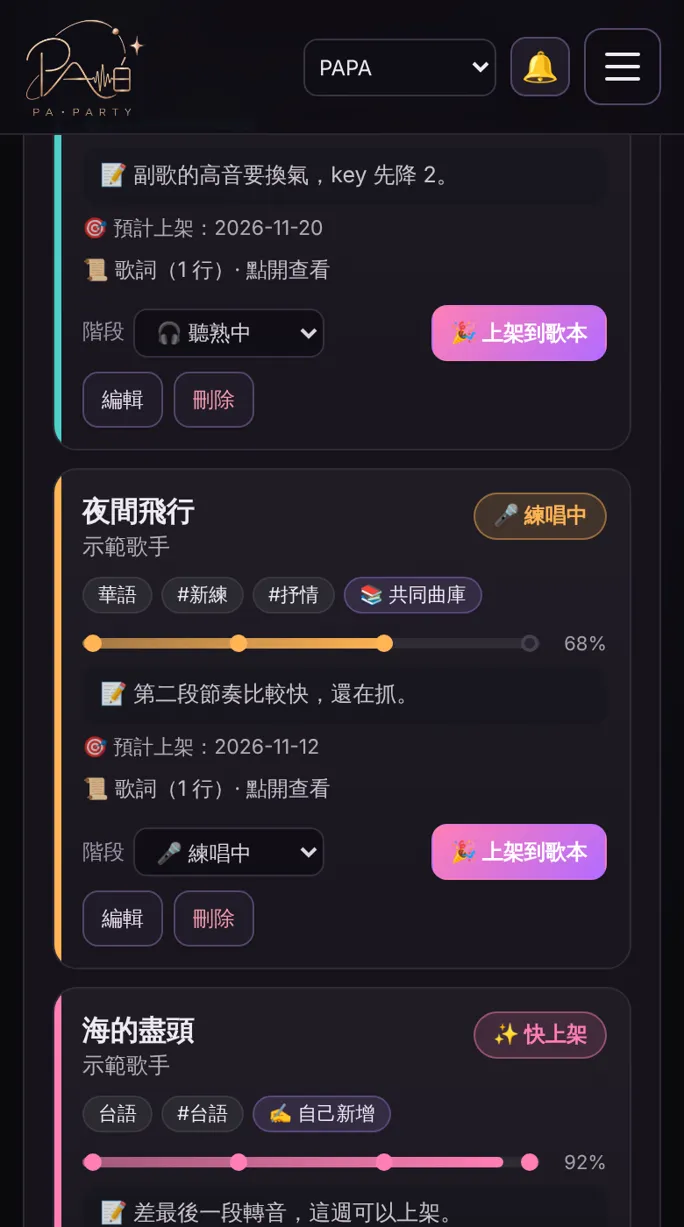
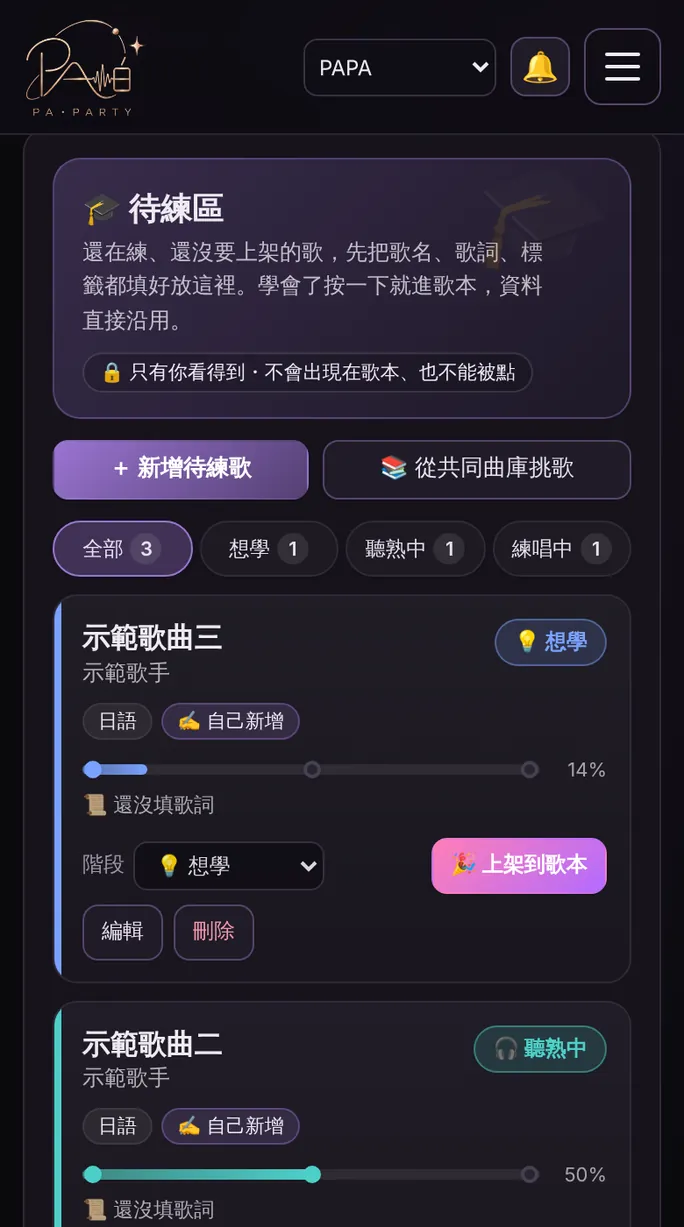
11.02-TUTORIAL.41: 版本關係更多收納、待練區按鈕自動適配、新增教學 S22、主題色跟隨
Claude-Session: https://claude.ai/code/session_01ANnXFeqtVDYF17keKLURCW

diff --git a/src/practice-zone.js b/src/practice-zone.js
@@ -15,13 +15,15 @@ const CSS=`
 .pz-bar{display:flex;gap:8px;flex-wrap:wrap;margin:12px 0 4px}
 .pz-bar button{flex:1 1 auto;min-height:40px}
 .pz-primary{background:linear-gradient(135deg,var(--pz-accent),color-mix(in srgb,var(--pz-accent) 55%,#000))!important;color:#fff!important;border-color:transparent!important;font-weight:700}
-.pz-chips{display:flex;gap:6px;overflow-x:auto;padding:8px 0 10px;scrollbar-width:none}
+.pz-chips{display:grid;grid-template-columns:repeat(4,minmax(0,1fr));gap:4px;padding:8px 0 10px}
 .pz-chips::-webkit-scrollbar{display:none}
-.pz-chip{flex:0 0 auto;display:inline-flex;align-items:center;gap:5px;padding:6px 11px;border-radius:999px;font-size:12.5px;border:1px solid var(--line,#fff2);background:#ffffff08;white-space:nowrap}
+.pz-chip{min-width:0;justify-content:center;display:inline-flex;align-items:center;gap:3px;padding:6px 3px;border-radius:999px;font-size:clamp(10.5px,3vw,12.5px);border:1px solid var(--home-line,var(--line,#fff2));background:#ffffff08;white-space:nowrap}
 .pz-chip b{font-size:11px;min-width:18px;height:18px;line-height:18px;text-align:center;border-radius:9px;background:#ffffff18;font-weight:600}
+.pz-chip b{flex:none}
+@media(max-width:430px){.pz-chip .pz-ic{display:none}.pz-chip{gap:4px}}
 .pz-chip.on{background:color-mix(in srgb,var(--pz-accent) 32%,transparent);border-color:var(--pz-accent)}
 .pz-list{display:grid;gap:10px}
-.pz-card{position:relative;padding:13px 13px 12px 16px;border-radius:14px;border:1px solid var(--line,#fff2);background:linear-gradient(180deg,#ffffff0b,#ffffff04);overflow:hidden}
+.pz-card{position:relative;padding:13px 13px 12px 16px;border-radius:14px;border:1px solid var(--home-line,var(--line,#fff2));background:linear-gradient(180deg,#ffffff0b,#ffffff04);overflow:hidden}
 .pz-card::before{content:"";position:absolute;left:0;top:0;bottom:0;width:4px;background:var(--c)}
 .pz-top{display:flex;gap:10px;align-items:flex-start;justify-content:space-between}
 .pz-title{font-size:16px;font-weight:700;line-height:1.3;overflow-wrap:anywhere}
@@ -49,7 +51,7 @@ const CSS=`
 .pz-stagesel{display:inline-flex;align-items:center;gap:5px;margin:0;font-size:12px;opacity:.9}
 .pz-stagesel select{width:auto;margin:0;min-height:28px;padding:2px 24px 2px 8px;font-size:12px}
 .pz-chk{display:flex;flex-wrap:wrap;gap:6px;margin:2px 0 4px}
-.pz-chk label{display:inline-flex;align-items:center;gap:5px;margin:0;padding:5px 10px;border-radius:999px;border:1px solid var(--line,#fff2);font-size:12.5px;cursor:pointer}
+.pz-chk label{display:inline-flex;align-items:center;gap:5px;margin:0;padding:5px 10px;border-radius:999px;border:1px solid var(--home-line,var(--line,#fff2));font-size:12.5px;cursor:pointer}
 .pz-chk input{width:auto;margin:0}
 .pz-chk label:has(input:checked){background:color-mix(in srgb,var(--pz-accent) 30%,transparent);border-color:var(--pz-accent)}
 .pz-go{background:linear-gradient(135deg,#ff7eb6,#b36bff)!important;color:#fff!important;border-color:transparent!important;font-weight:600}
@@ -73,7 +75,7 @@ export function createPracticeZone({h,modal,field,select,area,toast,render,getIt
  function html(){ensureStyle();const count=id=>items().filter(i=>id==='all'||i.stage===id).length,rows=items().filter(i=>filter==='all'||i.stage===filter);
   return `<div class="pz"><div class="pz-hero"><h2>🎓 待練區</h2><p>還在練、還沒要上架的歌，先把歌名、歌詞、標籤都填好放這裡。學會了按一下就進歌本，資料直接沿用。</p><span class="pz-lock">🔒 只有你看得到・不會出現在歌本、也不能被點</span></div>
   <div class="pz-bar"><button type="button" class="pz-primary" data-pz="add">＋ 新增待練歌</button><button type="button" data-pz="catalog">📚 從共同曲庫挑歌</button></div>
-  <div class="pz-chips" role="tablist">${[{id:'all',icon:'🗂',name:'全部'},...STAGES].map(s=>`<button type="button" class="pz-chip ${filter===s.id?'on':''}" data-pz="filter" data-id="${s.id}">${s.icon} ${s.name}<b>${count(s.id)}</b></button>`).join('')}</div>
+  <div class="pz-chips" role="tablist">${[{id:'all',icon:'🗂',name:'全部'},...STAGES].map(s=>`<button type="button" class="pz-chip ${filter===s.id?'on':''}" data-pz="filter" data-id="${s.id}"><span class="pz-ic">${s.icon}</span>${s.name}<b>${count(s.id)}</b></button>`).join('')}</div>
   <div class="pz-list">${rows.map(card).join('')||`<div class="pz-empty"><b>🎶</b>這裡還沒有歌<br>想練的歌先丟進來，慢慢練到可以上架</div>`}</div>
   <div class="pz-help">階段說明：${STAGES.map(s=>`${s.icon}${s.name}（${s.hint}）`).join(' → ')}</div></div>`;}
  function form(it={}){const langs=[...new Set([...getLangs(),...(it.lang?[it.lang]:[])])],tags=[...new Set([...getTags(),...(it.tags||[])])];

diff --git a/src/tutorial-center.js b/src/tutorial-center.js
@@ -8,7 +8,7 @@ export function createTutorialCenter({document, getAudience, review=false, fetch
  const base=new URL('./tutorials/',import.meta.url);
  const audience=()=>getAudience()==='streamer'?'streamer':'player';
  async function json(file){const url=new URL(file,base).href;if(cache.has(url))return cache.get(url);const data=await read(url,{credentials:'omit',cache:'no-cache'}).then(r=>{if(!r.ok)throw Error('教材載入失敗');return r.json();});cache.set(url,data);return data;}
- function mount(){if(dialog)return;const css=document.createElement('link');css.rel='stylesheet';css.href=new URL('./tutorial-center.css?v=11.02-TUTORIAL.40',import.meta.url).href;document.head.append(css);dialog=document.createElement('dialog');dialog.className='tutorial-center';dialog.setAttribute('aria-labelledby','tutorial-title');dialog.innerHTML='<header><h2 id="tutorial-title">📖 操作教學</h2><button type="button" data-tutorial-close aria-label="關閉操作教學">關閉</button></header><div class="tutorial-body"></div>';document.body.append(dialog);dialog.addEventListener('close',()=>{if(dialog.open)return;generation++;article=null;if(opener?.isConnected)opener.focus({preventScroll:true});});dialog.addEventListener('click',event=>{const b=event.target.closest('button');if(!b)return;if(b.hasAttribute('data-tutorial-close'))dialog.close();else if(b.hasAttribute('data-tutorial-article'))load(b.dataset.tutorialArticle);else if(b.hasAttribute('data-tutorial-list')){article=null;renderList();}else if(b.hasAttribute('data-tutorial-step')){step=Number(b.dataset.tutorialStep);renderArticle();}});dialog.addEventListener('input',event=>{if(event.target.matches('[data-tutorial-search]')){query=event.target.value;renderResults();}});dialog.addEventListener('change',event=>{if(event.target.matches('[data-tutorial-category]')){category=event.target.value;renderResults();}});}
+ function mount(){if(dialog)return;const css=document.createElement('link');css.rel='stylesheet';css.href=new URL('./tutorial-center.css?v=11.02-TUTORIAL.41',import.meta.url).href;document.head.append(css);dialog=document.createElement('dialog');dialog.className='tutorial-center';dialog.setAttribute('aria-labelledby','tutorial-title');dialog.innerHTML='<header><h2 id="tutorial-title">📖 操作教學</h2><button type="button" data-tutorial-close aria-label="關閉操作教學">關閉</button></header><div class="tutorial-body"></div>';document.body.append(dialog);dialog.addEventListener('close',()=>{if(dialog.open)return;generation++;article=null;if(opener?.isConnected)opener.focus({preventScroll:true});});dialog.addEventListener('click',event=>{const b=event.target.closest('button');if(!b)return;if(b.hasAttribute('data-tutorial-close'))dialog.close();else if(b.hasAttribute('data-tutorial-article'))load(b.dataset.tutorialArticle);else if(b.hasAttribute('data-tutorial-list')){article=null;renderList();}else if(b.hasAttribute('data-tutorial-step')){step=Number(b.dataset.tutorialStep);renderArticle();}});dialog.addEventListener('input',event=>{if(event.target.matches('[data-tutorial-search]')){query=event.target.value;renderResults();}});dialog.addEventListener('change',event=>{if(event.target.matches('[data-tutorial-category]')){category=event.target.value;renderResults();}});}
  const body=()=>dialog.querySelector('.tutorial-body');
  function currentIndex(){return visibleTutorials(index||[],audience(),typeof review==='function'?review():review);}
  function renderList(){const items=currentIndex(),categories=[...new Set(items.map(i=>i.category))];body().innerHTML=`<section class="tutorial-hero"><p class="tutorial-eyebrow">${audience()==='streamer'?'🎤 主播端':'🎧 玩家端'} · 圖文操作教學</p><h3>想學哪一項？</h3><p class="tutorial-sub">每個步驟都有畫面、按鈕說明和注意事項，跟著做就會了。</p></section>${(typeof review==='function'?review():review)?'<p class="tutorial-note">🚧 審核模式：未完成的教材只提供草稿，補齊截圖與審核後才會對外開放。</p>':''}<div class="tutorial-tools"><label class="tutorial-search"><span aria-hidden="true">🔍</span><input type="search" data-tutorial-search value="${escape(query)}" placeholder="搜尋：存歌、確認禮物、準備時間" aria-label="關鍵字搜尋"></label><label class="tutorial-cat"><select data-tutorial-category aria-label="教學分類"><option value="">全部分類</option>${categories.map(c=>`<option ${category===c?'selected':''}>${escape(c)}</option>`).join('')}</select></label></div><div data-tutorial-results class="tutorial-grid" aria-live="polite"></div>`;renderResults();}

diff --git a/src/app.js b/src/app.js
@@ -1,10 +1,10 @@
-import {createPracticeZone} from './practice-zone.js?v=11.02-PZ.4';
-import {createTutorialCenter} from './tutorial-center.js?v=11.02-TUTORIAL.40';
-import {createTutorialHints} from './tutorial-hints.js?v=11.02-TUTORIAL.40';
+import {createPracticeZone} from './practice-zone.js?v=11.02-PZ.5';
+import {createTutorialCenter} from './tutorial-center.js?v=11.02-TUTORIAL.41';
+import {createTutorialHints} from './tutorial-hints.js?v=11.02-TUTORIAL.41';
 import {installMedalReplay,animateUnlockedMedals} from './medal-animation.js';
 installMedalReplay(document);
 
-import {installCompactMenu} from './application-menu.js?v=11.02-TUTORIAL.40';
+import {installCompactMenu} from './application-menu.js?v=11.02-TUTORIAL.41';
 import {createPlatformManagement} from './platform-management.js?v=10.29-SPACE.1';
 import {createManagementEntry} from './management-entry.js?v=10.21-WEB.4';
 import {installOverlayFeedback} from './overlay-feedback.js?v=10.21-WEB.4';
@@ -20,7 +20,7 @@ import {webApiFailure} from './web-api-errors.js?v=10.20-WEB.1';
 import {canonicalNoticeLink} from './notification-rules.js?v=10.31-PUSH.3';
 import {validateNotificationTarget,parseNotificationTarget,notificationTargetPath,notificationTargetView} from './notification-target.js?v=10.31-CALL.1';
 import {noticeTargetMatchesRoom,planNotificationLanding} from './notification-landing.js?v=10.20-WEB.1';
-import {canonicalLanguage,catalogGroupKey,eventDescription,installActionHints,installSearchShortcuts} from './catalog-tools.js?v=11.02-TUTORIAL.40';
+import {canonicalLanguage,catalogGroupKey,eventDescription,installActionHints,installSearchShortcuts} from './catalog-tools.js?v=11.02-TUTORIAL.41';
 import {fateCategories,drawSong} from './fate.js?v=10.20-WEB.1';
 import {createBoard} from './board.js?v=10.20-WEB.1';
 import {createChat} from './chat.js?v=10.31-PUSH.2';
@@ -816,7 +816,7 @@ function applyHomeTheme(){const root=document.documentElement;if(state.settings.
 // spread down a long list nor get cut off on a short page.
 const themeDecorHomeKey=()=> 'papa-theme-decor-home-'+(state.currentStreamer?.id||streamerSlug);
 function syncThemeDecor(){const app=$('#app'),theme=state.settings.theme;if(!app)return;app.querySelectorAll(':scope>.theme-decor-layer').forEach(el=>el.remove());const html=theme&&!managementPage()?themeDecorHtml(theme,{escape:h}):'';app.classList.toggle('theme-home-host',!!html);if(html){app.insertAdjacentHTML('beforeend',html);const layer=app.querySelector(':scope>.theme-decor-layer:not(.theme-decor-screen)');if(layer){const home=!['admin','common-book','book','center','gallery'].includes(route);if(home){try{localStorage.setItem(themeDecorHomeKey(),String(app.offsetHeight));}catch{}}else{let homeHeight=0;try{homeHeight=Number(localStorage.getItem(themeDecorHomeKey()))||0;}catch{}if(homeHeight>0){layer.style.bottom='auto';layer.style.height=Math.min(app.offsetHeight,homeHeight)+'px';}}}}themeDecorMotion(document,html?theme:null,{host:app});}
-async function loadThemeStudio(){if(!document.querySelector('link[data-theme-studio-css]')){const link=document.createElement('link');link.rel='stylesheet';link.href=new URL('./theme-studio.css?v=11.02-TUTORIAL.40',import.meta.url).href;link.dataset.themeStudioCss='';document.head.append(link);}return import('./theme-studio.js?v=11.02-TUTORIAL.40');}
+async function loadThemeStudio(){if(!document.querySelector('link[data-theme-studio-css]')){const link=document.createElement('link');link.rel='stylesheet';link.href=new URL('./theme-studio.css?v=11.02-TUTORIAL.41',import.meta.url).href;link.dataset.themeStudioCss='';document.head.append(link);}return import('./theme-studio.js?v=11.02-TUTORIAL.41');}
 async function openThemeDesigner(){
  if(demo||draft)throw Error('首頁主題設計請在正式同步模式使用');if(!admin)throw Error('請先登入管理');
  const {openThemeStudio}=await loadThemeStudio();const room=state.currentStreamer,space=state.streamers.find(r=>r.id===room.id)?.spaceId||room.spaceId||'space-001';

diff --git a/preview.html b/preview.html
@@ -1,2 +1,2 @@
-<!doctype html><html lang="zh-Hant"><head><meta charset="utf-8"><meta name="viewport" content="width=device-width,initial-scale=1"><meta name="theme-color" content="#171222"><title>PA • PARTY｜點歌與存歌</title><link rel="stylesheet" href="src/style.css?v=10.29-CATALOG.1"><link rel="stylesheet" href="src/mobile.css?v=10.20-WEB.1"><link rel="stylesheet" href="src/theme.css?v=11.02-TUTORIAL.40"><link rel="stylesheet" href="src/theme-v2.css?v=10.31-THEME.1"><link rel="manifest" href="manifest.webmanifest"><link rel="apple-touch-icon" href="assets/apple-touch-icon.png"><link rel="stylesheet" href="src/site-footer.css?v=10.20-WEB.1"><link rel="stylesheet" href="src/share-dialog.css?v=10.20-WEB.1"><link rel="stylesheet" href="src/public-links.css?v=10.20-WEB.1"></head><body><header id="header"></header><main id="app"><p>歌本準備中 ♡</p></main><footer id="site-footer" class="site-footer" aria-label="網站資訊"></footer><dialog id="dialog"></dialog><div id="toast" role="status" aria-live="polite"></div><script type="module" src="src/app.js?v=11.02-TUTORIAL.40&pwa=1&menu=1023&admin=1"></script><script type="module" src="src/site-footer.js?v=10.20-WEB.1"></script><script type="module" src="src/application-menu-bootstrap.js?v=11.02-TUTORIAL.40"></script></body></html>
+<!doctype html><html lang="zh-Hant"><head><meta charset="utf-8"><meta name="viewport" content="width=device-width,initial-scale=1"><meta name="theme-color" content="#171222"><title>PA • PARTY｜點歌與存歌</title><link rel="stylesheet" href="src/style.css?v=10.29-CATALOG.1"><link rel="stylesheet" href="src/mobile.css?v=10.20-WEB.1"><link rel="stylesheet" href="src/theme.css?v=11.02-TUTORIAL.41"><link rel="stylesheet" href="src/theme-v2.css?v=10.31-THEME.1"><link rel="manifest" href="manifest.webmanifest"><link rel="apple-touch-icon" href="assets/apple-touch-icon.png"><link rel="stylesheet" href="src/site-footer.css?v=10.20-WEB.1"><link rel="stylesheet" href="src/share-dialog.css?v=10.20-WEB.1"><link rel="stylesheet" href="src/public-links.css?v=10.20-WEB.1"></head><body><header id="header"></header><main id="app"><p>歌本準備中 ♡</p></main><footer id="site-footer" class="site-footer" aria-label="網站資訊"></footer><dialog id="dialog"></dialog><div id="toast" role="status" aria-live="polite"></div><script type="module" src="src/app.js?v=11.02-TUTORIAL.41&pwa=1&menu=1023&admin=1"></script><script type="module" src="src/site-footer.js?v=10.20-WEB.1"></script><script type="module" src="src/application-menu-bootstrap.js?v=11.02-TUTORIAL.41"></script></body></html>
 

diff --git a/v2.html b/v2.html
@@ -1,2 +1,2 @@
-<!doctype html><html lang="zh-Hant"><head><meta charset="utf-8"><meta name="viewport" content="width=device-width,initial-scale=1"><meta name="theme-color" content="#171222"><title>PA • PARTY｜點歌與存歌</title><link rel="stylesheet" href="src/style.css?v=10.29-CATALOG.1"><link rel="stylesheet" href="src/mobile.css?v=10.20-WEB.1"><link rel="stylesheet" href="src/theme.css?v=11.02-TUTORIAL.40"><link rel="stylesheet" href="src/theme-v2.css?v=10.31-THEME.1"><link rel="manifest" href="manifest.webmanifest"><link rel="apple-touch-icon" href="assets/apple-touch-icon.png"><link rel="stylesheet" href="src/site-footer.css?v=10.20-WEB.1"><link rel="stylesheet" href="src/share-dialog.css?v=10.20-WEB.1"><link rel="stylesheet" href="src/public-links.css?v=10.20-WEB.1"></head><body><header id="header"></header><main id="app"><p>歌本準備中 ♡</p></main><footer id="site-footer" class="site-footer" aria-label="網站資訊"></footer><dialog id="dialog"></dialog><div id="toast" role="status" aria-live="polite"></div><script type="module" src="src/app.js?v=11.02-TUTORIAL.40&pwa=1&menu=1023&admin=1"></script><script type="module" src="src/site-footer.js?v=10.20-WEB.1"></script><script type="module" src="src/application-menu-bootstrap.js?v=11.02-TUTORIAL.40"></script></body></html>
+<!doctype html><html lang="zh-Hant"><head><meta charset="utf-8"><meta name="viewport" content="width=device-width,initial-scale=1"><meta name="theme-color" content="#171222"><title>PA • PARTY｜點歌與存歌</title><link rel="stylesheet" href="src/style.css?v=10.29-CATALOG.1"><link rel="stylesheet" href="src/mobile.css?v=10.20-WEB.1"><link rel="stylesheet" href="src/theme.css?v=11.02-TUTORIAL.41"><link rel="stylesheet" href="src/theme-v2.css?v=10.31-THEME.1"><link rel="manifest" href="manifest.webmanifest"><link rel="apple-touch-icon" href="assets/apple-touch-icon.png"><link rel="stylesheet" href="src/site-footer.css?v=10.20-WEB.1"><link rel="stylesheet" href="src/share-dialog.css?v=10.20-WEB.1"><link rel="stylesheet" href="src/public-links.css?v=10.20-WEB.1"></head><body><header id="header"></header><main id="app"><p>歌本準備中 ♡</p></main><footer id="site-footer" class="site-footer" aria-label="網站資訊"></footer><dialog id="dialog"></dialog><div id="toast" role="status" aria-live="polite"></div><script type="module" src="src/app.js?v=11.02-TUTORIAL.41&pwa=1&menu=1023&admin=1"></script><script type="module" src="src/site-footer.js?v=10.20-WEB.1"></script><script type="module" src="src/application-menu-bootstrap.js?v=11.02-TUTORIAL.41"></script></body></html>
 

diff --git a/src/theme.css b/src/theme.css
@@ -412,8 +412,8 @@ html #app .notice-target-banner{border-color:var(--home-accent,#cba4ea)!importan
 .rel-col>.rel-side button{padding:2px 7px!important;font-size:10.5px!important;min-height:24px!important;line-height:1.2;white-space:nowrap}
 .catalog-family .catalog-variant-row{row-gap:0!important}
 .rel-col>.rel-more{position:static}
-.rel-more>summary{list-style:none;cursor:pointer;padding:2px 14px;min-height:22px;display:inline-flex;align-items:center;font-size:10.5px;border-radius:999px;border:1px solid var(--line,#ffffff30);background:#ffffff0d}
+.rel-more>summary{list-style:none;cursor:pointer;padding:1px 8px;min-height:20px;display:inline-flex;align-items:center;font-size:10px;border-radius:999px;border:1px solid var(--home-line,var(--line,#ffffff30));background:#ffffff0d}
 .rel-more>summary::-webkit-details-marker{display:none}
 .rel-more[open]>summary{background:#ffffff22}
-.rel-more-pop{position:absolute;z-index:60;left:auto;right:0;width:max-content;max-width:100%;top:calc(100% - 2px);display:flex;flex-wrap:nowrap;gap:4px;justify-content:flex-end;padding:5px;overflow-x:auto;border-radius:14px;background:#1d1530;border:1px solid #ffffff2a;box-shadow:0 10px 28px #000a}
+.rel-more-pop{position:absolute;z-index:60;left:auto;right:0;width:max-content;max-width:100%;top:calc(100% - 2px);display:flex;flex-wrap:nowrap;gap:4px;justify-content:flex-end;padding:5px;overflow-x:auto;border-radius:14px;background:var(--home-panel,#1d1530);border:1px solid var(--home-line,#ffffff2a);box-shadow:0 10px 28px #000a}
 .rel-more-pop button{flex:none;margin:0!important;padding:3px 7px!important;min-height:26px!important;font-size:10.5px!important;white-space:nowrap}

diff --git a/tests/fixtures/tutorial-qa.html b/tests/fixtures/tutorial-qa.html
@@ -13,7 +13,7 @@ document.querySelector('#verify').onclick=async()=>{const results=[],check=(v,m)
  await center.open({id:'P01',chapter:'fees'});check(document.querySelector('h4').textContent==='查看禮物值','文章章節跳轉');
  check(document.querySelectorAll('.tutorial-center img').length===1,'每次只載入當前步驟圖片');
  document.querySelector('[data-tutorial-close]').click();await tick();check(draft.value===before&&location.hash===hash,'關閉保留原始表單與路由');
- role.value='streamer';await center.open();check(document.querySelectorAll('[data-tutorial-article]').length===20,'主播顯示二十篇教材');
+ role.value='streamer';await center.open();check(document.querySelectorAll('[data-tutorial-article]').length===21,"主播顯示二十一篇教材");
  check((await center.relatedLink('S07','1'))==='','未完成文章不建立完整教學連結');
  document.querySelector('[data-tutorial-close]').click();await tick();
  document.querySelector('#existing').showModal();const original=document.querySelector('#existing input');original.value='編輯中的內容';document.querySelector('#nested').focus();await center.open({id:'S01'});document.querySelector('[data-tutorial-close]').click();await tick();check(document.querySelector('#existing').open&&original.value==='編輯中的內容','原有視窗與未儲存內容保留');check(document.activeElement.id==='nested','焦點返回原本按鈕');document.querySelector('#existing').close();

diff --git a/tests/tutorial-center.test.js b/tests/tutorial-center.test.js
@@ -6,7 +6,7 @@ import {visibleTutorials,searchTutorials} from '../src/tutorial-center.js';
 const folder='src/tutorials',index=JSON.parse(fs.readFileSync(folder+'/index.json'));
 test('role-specific search never leaks streamer results to the player index',()=>{
  const player=visibleTutorials(index,'player',true),streamer=visibleTutorials(index,'streamer',true);
- assert.equal(player.length,13);assert.equal(streamer.length,20);
+ assert.equal(player.length,13);assert.equal(streamer.length,21);
  assert.equal(searchTutorials(player,'批量').length,0);
  assert.equal(searchTutorials(streamer,'S07')[0].id,'S07');
  assert.equal(searchTutorials(player,'  Ｐ０１  ')[0].id,'P01');

diff --git a/src/application-menu-bootstrap.js b/src/application-menu-bootstrap.js
@@ -1,4 +1,4 @@
-import {installCompactMenu} from './application-menu.js?v=11.02-TUTORIAL.40';
+import {installCompactMenu} from './application-menu.js?v=11.02-TUTORIAL.41';
 import {readPublicRouteContext} from './public-links.js';
 import {streamerAdminDestination} from './streamer-admin-route.js';
 

diff --git a/RELEASE-11.02-TUTORIAL.41.md b/RELEASE-11.02-TUTORIAL.41.md
@@ -1,0 +1,1 @@
+# 11.02-TUTORIAL.41
